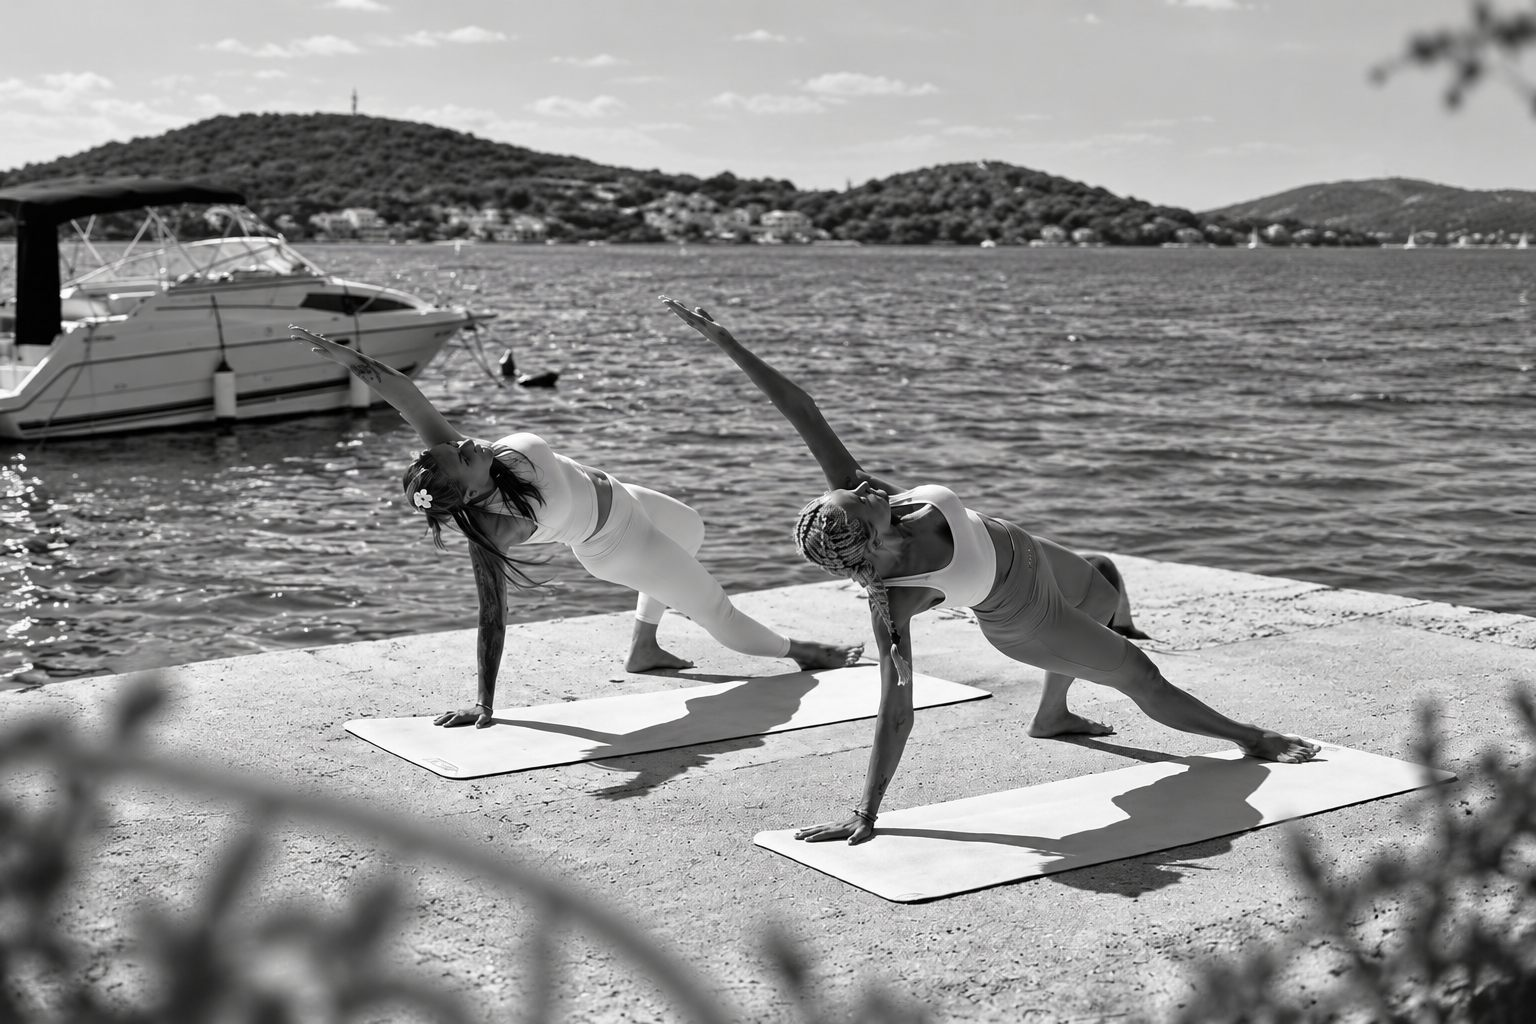
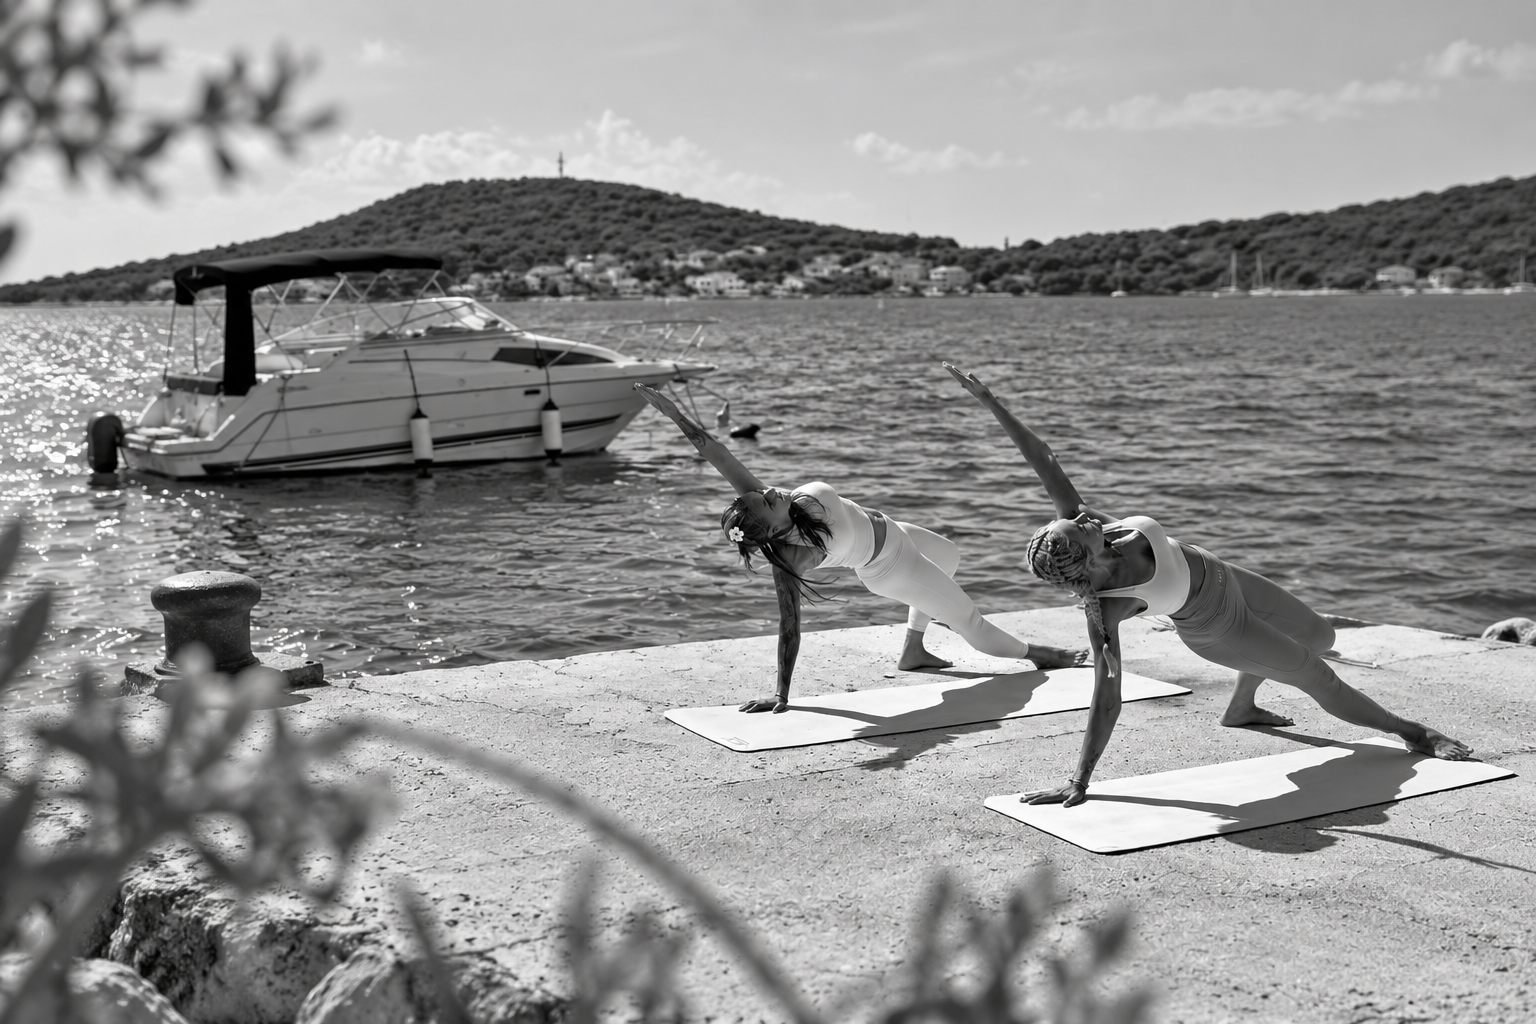
Vymena hero a pozadia Rozvrh lekcii za nove fotky (optimalizovane JPEG)

diff --git a/index.html b/index.html
@@ -208,7 +208,7 @@ tailwind.config = {
 <!-- ============ LEKCIE ============ -->
 <section id="lekcie" class="py-24 sm:py-32 bg-sage-700 text-sand-100 relative overflow-hidden">
   <div class="absolute inset-0 opacity-[.12]">
-    <img src="img/lekcie.webp" data-fallback="https://images.unsplash.com/photo-1506126613408-eca07ce68773?auto=format&fit=crop&w=2000&q=80" onerror="this.onerror=null;this.src=this.dataset.fallback" alt="" class="w-full h-full object-cover">
+    <img src="img/lekcie.jpg" data-fallback="https://images.unsplash.com/photo-1506126613408-eca07ce68773?auto=format&fit=crop&w=2000&q=80" onerror="this.onerror=null;this.src=this.dataset.fallback" alt="" class="w-full h-full object-cover">
   </div>
   <div class="relative mx-auto max-w-7xl px-5 sm:px-8">
     <div class="max-w-2xl">
